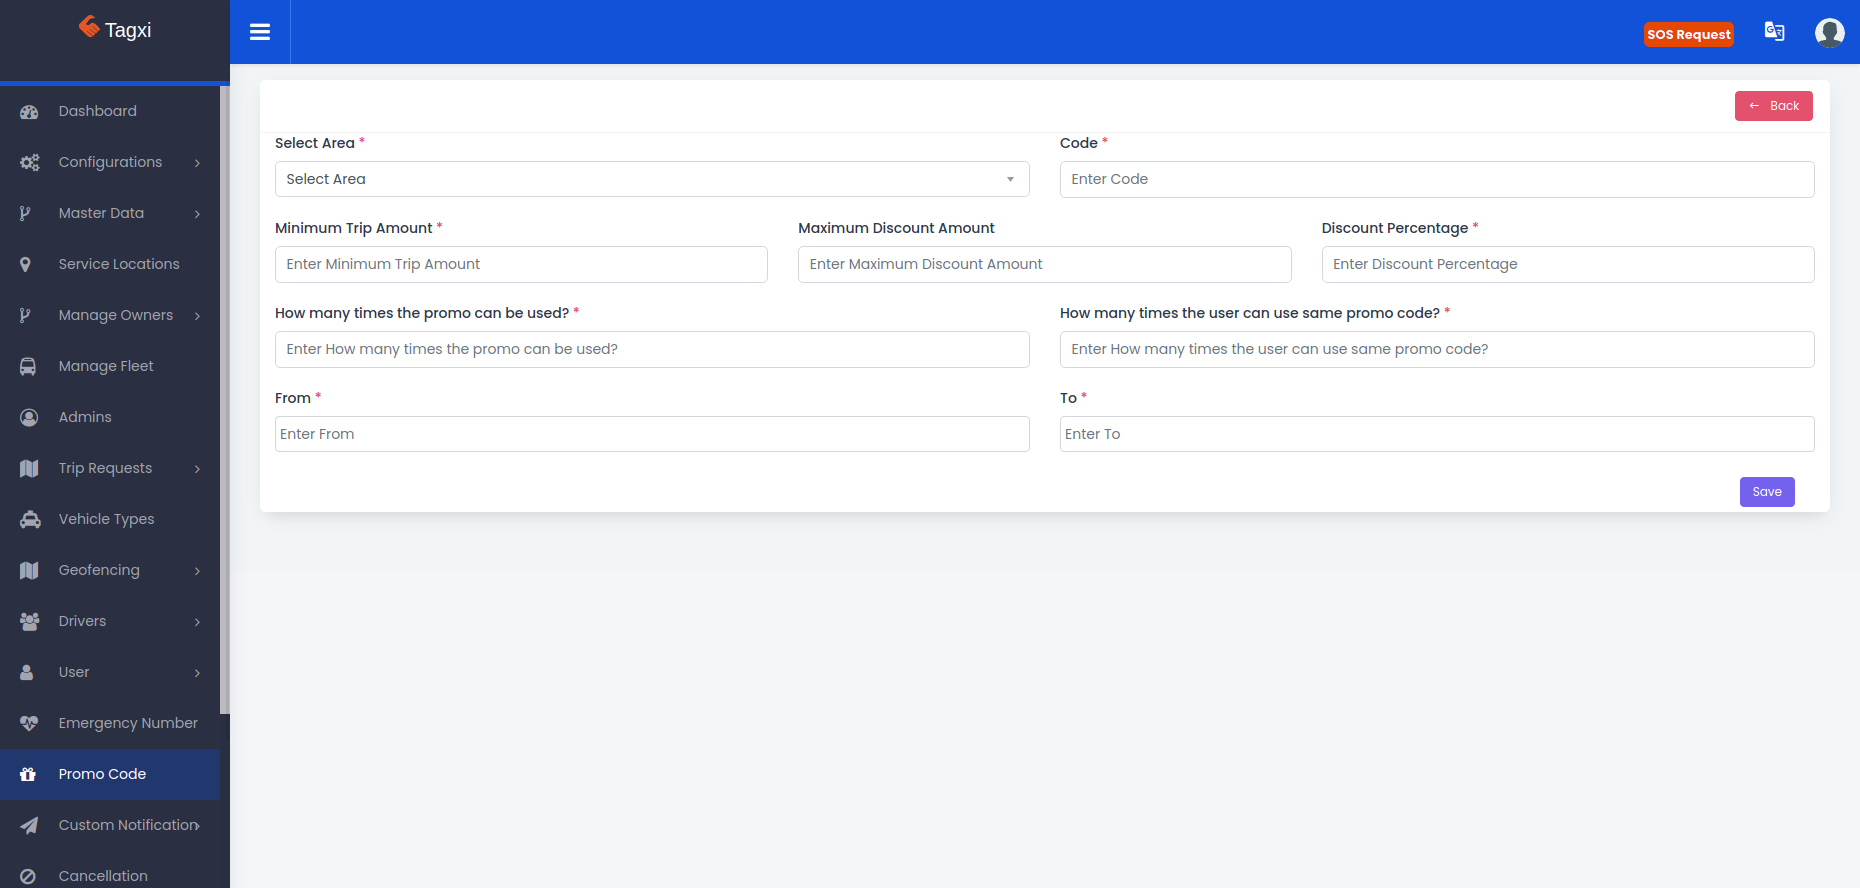
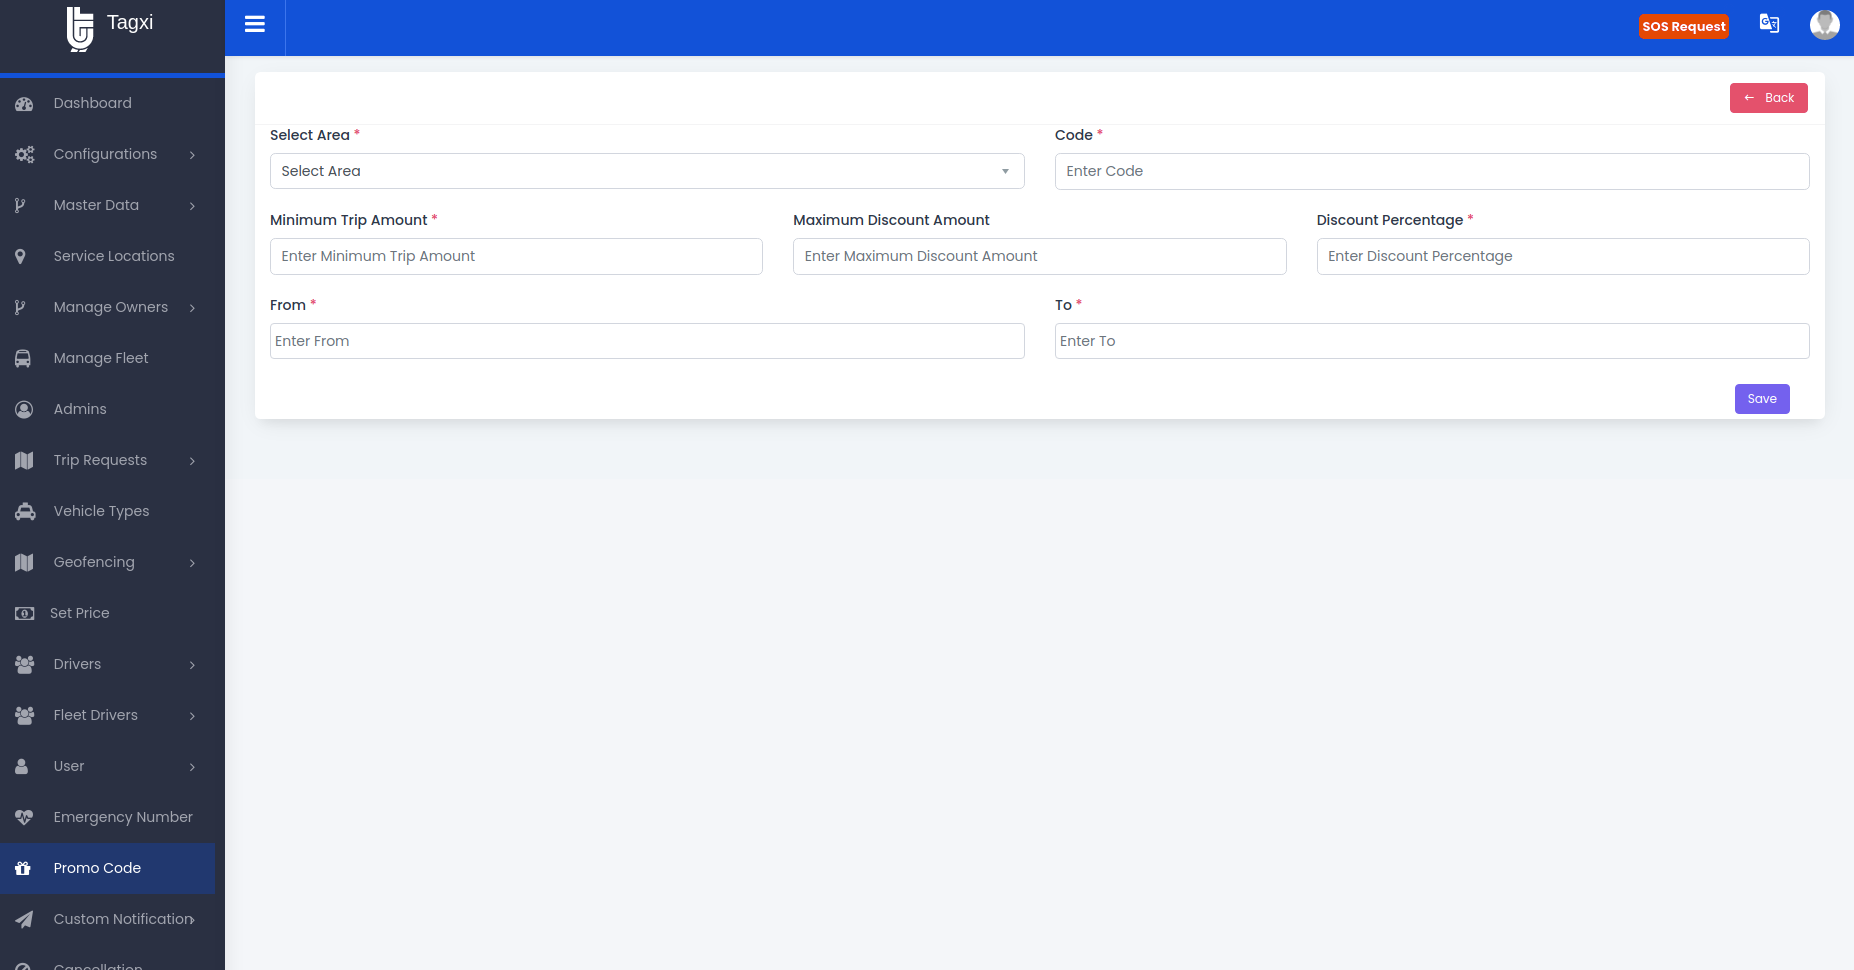
doc updates

diff --git a/resources/docs/1.0/admin-user-manual.md b/resources/docs/1.0/admin-user-manual.md
@@ -126,7 +126,7 @@ Here you can see the list of scheduled & ride now requests along with multiple a
 
 <a name="promo-management"></a>
 ## 6.Promo Management
-Here you can configure the promo code with expiry dates and other configurations like how manu users can be used & how many times the same user can use the same promo. please refer the following image. Admin users can able to edit or in active the promo code at any time.
+Here you can configure the promo code with expiry dates. please refer the following image. Admin users can able to edit or in active the promo code at any time.
 ##
 Note: Maximum discount amount field is an optional. if you set the maximum discount amount then the promo would be act like an offer upto option. i.e you can configure the promo as 50% discount upto 200$ like this.
 ![image](../../images/user-manual-docs/create-promo.png)
